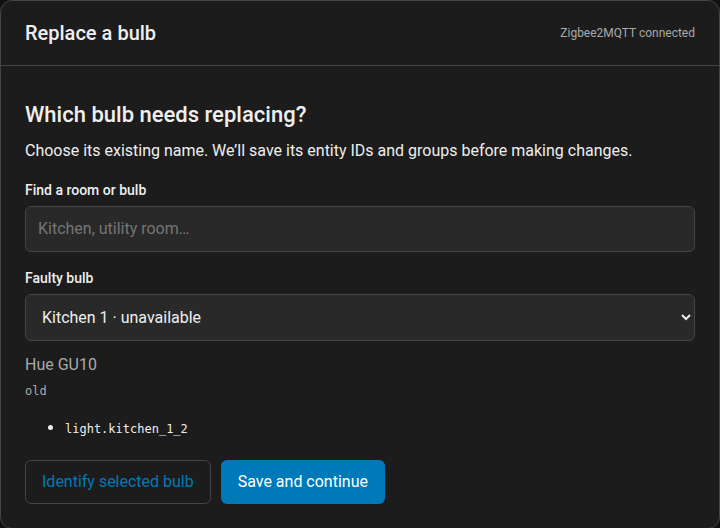
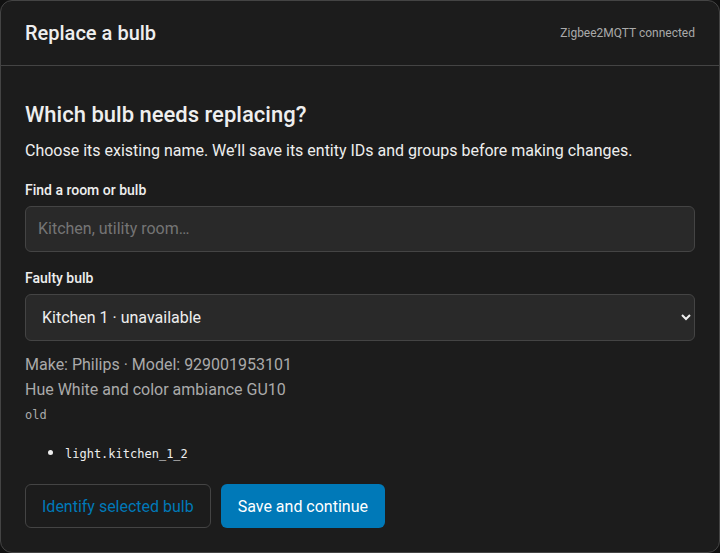
feat: show make and model and suggest newly paired bulbs

diff --git a/custom_components/z2m_device_swap/frontend/z2m-device-swap-card.js b/custom_components/z2m_device_swap/frontend/z2m-device-swap-card.js
@@ -5,6 +5,7 @@ class DeviceSwapCard extends HTMLElement {
   constructor() {
     super(); this.attachShadow({mode:'open'}); this._config = {}; this._data = null;
     this._busy = false; this._error = ''; this._selectedOld = ''; this._selectedNew = '';
+    this._pairingSession = null; this._knownDevices = new Set(); this._detectedNew = ''; this._replacementChosen = false;
     this._confirm = false; this._query = ''; this._last = ''; this._notice = '';
   }
   setConfig(config) { this._config = config; this.refresh(); }
@@ -18,7 +19,7 @@ class DeviceSwapCard extends HTMLElement {
     try {
       const data = await this._hass.callWS({type:'z2m_device_swap/status', entry_id:this._config.entry_id});
       const serialized = JSON.stringify(data);
-      if (serialized !== this._last) { this._data = data; this._last = serialized; this.render(); }
+      if (serialized !== this._last) { this.acceptData(data); this._last = serialized; this.render(); }
     } catch (error) { this._error = error.message || String(error); this.render(); }
     finally { this._loading = false; }
   }
@@ -26,11 +27,39 @@ class DeviceSwapCard extends HTMLElement {
     if (this._busy) return;
     this._busy = true; this._error = ''; this._notice = ''; this.render();
     try {
-      this._data = await this._hass.callWS({type:'z2m_device_swap/action', entry_id:this._config.entry_id,
+      const data = await this._hass.callWS({type:'z2m_device_swap/action', entry_id:this._config.entry_id,
         action, session_id:this._data?.session?.id, ...extra});
+      this.acceptData(data);
       this._confirm = false;
     } catch (error) { this._error = error.message || String(error); }
     finally { this._busy = false; this._last = ''; this.render(); await this.refresh(); }
+  }
+  acceptData(data) {
+    const session = data.session;
+    if (session?.stage === 'select') {
+      if (this._pairingSession !== session.id) {
+        this._pairingSession = session.id;
+        this._knownDevices = new Set(session.known_devices || (this._data?.devices || data.devices).map(d => d.ieee_address));
+        this._selectedNew = ''; this._detectedNew = ''; this._replacementChosen = false;
+      }
+      if (!data.devices.some(d => d.ieee_address === this._selectedNew)) {
+        this._selectedNew = ''; this._detectedNew = '';
+      }
+      const arrivals = data.devices.filter(d => d.ieee_address !== session.old.ieee_address && !this._knownDevices.has(d.ieee_address));
+      this._multipleNew = arrivals.length > 1;
+      if (!this._selectedNew && !this._replacementChosen && arrivals.length === 1) {
+        this._selectedNew = arrivals[0].ieee_address;
+        this._detectedNew = this._selectedNew;
+      }
+    }
+    this._data = data;
+  }
+  bulbDescription(device) {
+    const definition = device.definition || {};
+    const make = definition.vendor || device.manufacturer || 'Unknown make';
+    const model = device.model || definition.model || device.model_id || 'Unknown model';
+    const description = device.description || definition.description;
+    return `<span>Make: ${esc(make)} · Model: ${esc(model)}</span>${description ? `<br>${esc(description)}` : ''}`;
   }
   async identify(ieee) {
     if (this._busy) return;
@@ -53,7 +82,7 @@ class DeviceSwapCard extends HTMLElement {
   }
   selectedDetails(device) {
     if (!device) return '';
-    return `<p class="muted">${esc(device.model)}<br><code>${esc(device.ieee_address)}</code></p>
+    return `<p class="muted">${this.bulbDescription(device)}<br><code>${esc(device.ieee_address)}</code></p>
       <ul>${device.entities.filter(e => e.domain === 'light').map(e => `<li><code>${esc(e.entity_id)}</code></li>`).join('')}</ul>`;
   }
   updateSearchResults() {
@@ -104,18 +133,19 @@ class DeviceSwapCard extends HTMLElement {
         <div id="old-details">${this.selectedDetails(old)}</div><div class="actions"><button data-action="flash-old" ${!old || disabled ? 'disabled':''}>Identify selected bulb</button>
         <button class="primary" data-action="begin" ${!old || disabled ? 'disabled':''}>Save and continue</button></div>`;
     } else if (stage === 'select') {
-      content = `<p class="eyebrow">Replacing ${esc(s.old.friendly_name)}</p><h2>Install and pair the new bulb</h2>
+      content = `<p class="eyebrow">Replacing ${esc(s.old.friendly_name)}</p><h2>Install and pair the new bulb</h2><p class="muted">${this.bulbDescription(s.old)}</p>
         <p>Switch off the light circuit, replace the faulty bulb, then restore power. Reset the new bulb for pairing if needed.</p>
         <button data-action="pair" ${disabled || d.permit_join ? 'disabled':''}>${d.permit_join ? 'Pairing is open' : 'Open pairing for 2 minutes'}</button>
-        <p class="muted">Wait for the new bulb to finish interviewing. Select it below; another device joining won’t select it for you.</p>
+        <p class="muted">Wait for the new bulb to finish interviewing. A newly detected bulb will be selected below when there is a single candidate. Check its make and model, then use Identify replacement to confirm the physical bulb.</p>
+        ${this._detectedNew === this._selectedNew && replacement ? `<p id="detected" class="success" role="status">Detected a new bulb: ${esc(replacement.friendly_name)}. This is likely your replacement. Use Identify replacement to flash it and confirm before continuing.</p>` : this._multipleNew && !this._selectedNew ? '<p role="status">Multiple new bulbs detected. Choose the correct replacement and use Identify replacement to confirm it.</p>' : ''}
         <label for="replacement">Replacement bulb</label><select id="replacement">${this.options(devices.filter(item=>item.ieee_address !== s.old.ieee_address),this._selectedNew)}</select>
         ${this.selectedDetails(replacement)}<div class="actions"><button data-action="flash-new" ${!replacement || disabled ? 'disabled':''}>Identify replacement</button>
         <button class="primary" data-action="select" ${!replacement || disabled ? 'disabled':''}>Review replacement</button></div>
         <button class="text" data-action="cancel" ${disabled ? 'disabled':''}>Cancel</button>`;
     } else {
       content = `<p class="eyebrow">${stage === 'verify' ? 'Final check' : stage === 'attention' ? 'Needs attention' : 'Review replacement'}</p>
-        <h2>${esc(s.old.friendly_name)}</h2><dl><dt>Remove faulty bulb</dt><dd><code>${esc(s.old.ieee_address)}</code></dd>
-        <dt>Use replacement</dt><dd>${esc(s.replacement?.friendly_name)}<br><code>${esc(s.replacement?.ieee_address)}</code></dd>
+        <h2>${esc(s.old.friendly_name)}</h2><dl><dt>Remove faulty bulb</dt><dd>${this.bulbDescription(s.old)}<br><code>${esc(s.old.ieee_address)}</code></dd>
+        <dt>Use replacement</dt><dd>${esc(s.replacement?.friendly_name)}<br>${s.replacement ? this.bulbDescription(s.replacement) : ''}<br><code>${esc(s.replacement?.ieee_address)}</code></dd>
         <dt>Restore groups</dt><dd>${groupNames.join(', ') || 'No groups'}</dd><dt>Keep exact HA entity IDs</dt><dd><ul class="entities">${preserved.map(e=>`<li><code>${esc(e.entity_id)}</code></li>`).join('')}</ul></dd></dl>
         ${skipped.length ? `<p class="muted">These disabled entities on the old bulb are not exposed by the replacement and will not be carried over:</p><ul>${skipped.map(e=>`<li><code>${esc(e.entity_id)}</code></li>`).join('')}</ul>` : ''}
         ${s.error ? `<p class="error" role="alert">${esc(s.error)}</p>`:''}
@@ -155,7 +185,7 @@ class DeviceSwapCard extends HTMLElement {
       this.updateSearchResults();
     });
     this.shadowRoot.querySelector('#old')?.addEventListener('change', event=> {this._selectedOld=event.target.value;this.render();});
-    this.shadowRoot.querySelector('#replacement')?.addEventListener('change',event=>{this._selectedNew=event.target.value;this.render();});
+    this.shadowRoot.querySelector('#replacement')?.addEventListener('change',event=>{this._selectedNew=event.target.value;this._detectedNew='';this._replacementChosen=true;this.render();});
     this.shadowRoot.querySelector('#confirm')?.addEventListener('change',event=>{this._confirm=event.target.checked;this.render();});
     this.shadowRoot.querySelectorAll('[data-action]').forEach(button=>button.addEventListener('click',()=>{
       const action=button.dataset.action;

diff --git a/tests/card-preview.html b/tests/card-preview.html
@@ -3,11 +3,11 @@
 <z2m-device-swap-card></z2m-device-swap-card>
 <script type="module">
 import '../custom_components/z2m_device_swap/frontend/z2m-device-swap-card.js';
-const bulb=(id,name)=>({ieee_address:id,friendly_name:name,model:'Hue GU10',state:'unavailable',interview_completed:true,entities:[{entity_id:id==='old'?'light.kitchen_1_2':'light.replacement',domain:'light',unique_id:id+'_light_zigbee2mqtt'},{entity_id:'button.'+id+'_identify',domain:'button',unique_id:id+'_identify_zigbee2mqtt',disabled_by:null}]});
+const bulb=(id,name)=>({ieee_address:id,friendly_name:name,manufacturer:'Philips',model:id==='old'?'929001953101':'929003666501',description:'Hue White and color ambiance GU10',state:'unavailable',interview_completed:true,entities:[{entity_id:id==='old'?'light.kitchen_1_2':'light.replacement',domain:'light',unique_id:id+'_light_zigbee2mqtt'},{entity_id:'button.'+id+'_identify',domain:'button',unique_id:id+'_identify_zigbee2mqtt',disabled_by:null}]});
 const data={online:true,inventory_ready:true,busy:false,permit_join:false,devices:[bulb('old','Kitchen 1'),bulb('new','New Hue GU10')],groups:[],session:null};
 window.calls=[];window.serviceCalls=[];window.previewData=data;
 const hass={async callService(domain,service,data){window.serviceCalls.push({domain,service,data});},async callWS(msg){window.calls.push(msg);if(msg.type.endsWith('/action')){
-if(msg.action==='begin')data.session={id:'test-session',stage:'select',old:data.devices[0],entities:data.devices[0].entities,groups:[{id:2,name:'Kitchen Lights',endpoint:11}],replacement:null};
+if(msg.action==='begin')data.session={id:'test-session',stage:'select',old:data.devices[0],entities:data.devices[0].entities,groups:[{id:2,name:'Kitchen Lights',endpoint:11}],replacement:null,known_devices:data.devices.map(d=>d.ieee_address)};
 if(msg.action==='select'){data.session.replacement=data.devices[1];data.session.stage='review';data.session.entities.push({entity_id:'sensor.legacy',domain:'sensor',unique_id:'old_legacy_zigbee2mqtt',disabled_by:'integration'});data.session.skipped_entities=[{entity_id:'sensor.legacy',reason:'Disabled on old bulb'}];}
 if(msg.action==='apply'){if(!msg.confirmed)throw Error('Confirmation required');data.session.stage='verify';}
 if(msg.action==='finish')data.session.stage='complete';

diff --git a/scripts/check_card.py b/scripts/check_card.py
@@ -65,6 +65,8 @@ with connect(page['webSocketDebuggerUrl'], max_size=16*1024*1024) as ws:
     assert evaluate('card.shadowRoot.activeElement === originalSearch'), 'Inventory refresh lost search focus'
     assert evaluate("card.shadowRoot.querySelectorAll('#old option').length") == 2
     choose('#old','old')
+    assert 'Philips' in evaluate("card.shadowRoot.querySelector('#old-details').textContent"), 'Selected bulb must show make'
+    assert '929001953101' in evaluate("card.shadowRoot.querySelector('#old-details').textContent"), 'Selected bulb must show model'
     click('flash-old')
     assert evaluate('serviceCalls') == [{'domain':'button','service':'press','data':{'entity_id':'button.old_identify'}}], 'Identify must use the selected bulb native button'
     assert evaluate("calls.filter(c=>c.action==='flash').length") == 0, 'Identify must not use generic HA flash'
@@ -93,4 +95,28 @@ with connect(page['webSocketDebuggerUrl'], max_size=16*1024*1024) as ws:
     choose('#old','old');click('begin');choose('#replacement','new');click('select')
     assert evaluate('document.documentElement.scrollWidth <= window.innerWidth')
     screenshot('z2m-swap-mobile-dark.png')
-print('Card browser checks passed: explicit selection, reviewed IDs, confirmation gates, physical check, mobile layout.')
+    # New MQTT inventory should suggest a replacement without performing Review or Apply.
+    call('Emulation.setDeviceMetricsOverride',{'width':900,'height':1000,'deviceScaleFactor':1,'mobile':False})
+    navigate('http://127.0.0.1:8765/tests/card-preview.html')
+    choose('#old','old');click('begin')
+    evaluate("previewData.devices.push({...previewData.devices[1],ieee_address:'joined',friendly_name:'New arrival'});card.refresh()")
+    settle()
+    assert evaluate("card.shadowRoot.querySelector('#replacement').value") == 'joined', 'A single new bulb must be preselected'
+    assert 'likely' in evaluate('card.shadowRoot.textContent').lower()
+    assert 'identify' in evaluate("card.shadowRoot.querySelector('#detected').textContent").lower()
+    assert not evaluate("calls.some(c=>['select','apply'].includes(c.action))"), 'Detection must not advance review or apply'
+    evaluate("card._pairingSession=null;card._selectedNew='';card._last='';card.refresh()")
+    settle()
+    assert evaluate("card.shadowRoot.querySelector('#replacement').value") == 'joined', 'Saved pairing baseline must survive a card reload'
+    choose('#replacement','new')
+    evaluate("previewData.devices.push({...previewData.devices[1],ieee_address:'later',friendly_name:'Another arrival'});card.refresh()")
+    settle()
+    assert evaluate("card.shadowRoot.querySelector('#replacement').value") == 'new', 'New arrivals must not override a manual choice'
+    assert evaluate("card.shadowRoot.querySelector('#detected')") is None
+    navigate('http://127.0.0.1:8765/tests/card-preview.html')
+    choose('#old','old');click('begin')
+    evaluate("previewData.devices.push(...['a','b'].map(id=>({...previewData.devices[1],ieee_address:id,friendly_name:id})));card.refresh()")
+    settle()
+    assert evaluate("card.shadowRoot.querySelector('#replacement').value") == '', 'Simultaneous arrivals need an explicit choice'
+    assert 'multiple' in evaluate('card.shadowRoot.textContent').lower()
+print('Card browser checks passed: make/model, new bulb suggestions, manual choice, ambiguity, reviewed IDs, confirmation gates, mobile layout.')

diff --git a/tests/test_status.py b/tests/test_status.py
@@ -1,0 +1,40 @@
+"""Exercise the UI inventory projection without the HA WebSocket decorators."""
+import ast
+import asyncio
+import importlib.util
+from pathlib import Path
+from types import SimpleNamespace
+import unittest
+
+ROOT = Path(__file__).parents[1] / 'custom_components/z2m_device_swap'
+spec = importlib.util.spec_from_file_location('status_workflow', ROOT / 'workflow.py')
+workflow = importlib.util.module_from_spec(spec)
+spec.loader.exec_module(workflow)
+tree = ast.parse((ROOT / 'websocket.py').read_text())
+function = next(n for n in tree.body if isinstance(n, ast.FunctionDef) and n.name == 'status')
+namespace = {'light_features': workflow.light_features}
+exec(compile(ast.Module(body=[function], type_ignores=[]), str(ROOT / 'websocket.py'), 'exec'), namespace)
+
+
+class StatusTests(unittest.TestCase):
+    def project(self, device):
+        bridge = SimpleNamespace(status=lambda: {'devices': [device]}, entities=lambda ieee: [],
+                                 hass=SimpleNamespace(states=SimpleNamespace(get=lambda entity: None)))
+        runtime = {'bridge': bridge, 'workflow': SimpleNamespace(snapshot=lambda: None, lock=asyncio.Lock()),
+                   'action_lock': asyncio.Lock()}
+        return namespace['status'](runtime)['devices'][0]
+
+    def test_selected_bulb_metadata_uses_catalog_make_model_and_description(self):
+        device = {'ieee_address': 'sample', 'friendly_name': 'Room bulb', 'manufacturer': 'Signify',
+                  'model_id': 'LCG006', 'definition': {'vendor': 'Philips', 'model': '929003666501',
+                  'description': 'Hue color GU10', 'exposes': [{'type': 'light', 'features': []}]}}
+        result = self.project(device)
+        self.assertEqual((result['manufacturer'], result['model'], result['description']),
+                         ('Philips', '929003666501', 'Hue color GU10'))
+
+    def test_missing_catalog_metadata_falls_back_to_reported_identity(self):
+        result = self.project({'ieee_address': 'sample', 'friendly_name': 'Room bulb',
+                               'manufacturer': 'Reported make', 'model_id': 'Reported model',
+                               'definition': {'exposes': [{'type': 'light', 'features': []}]}})
+        self.assertEqual((result['manufacturer'], result['model'], result['description']),
+                         ('Reported make', 'Reported model', None))

diff --git a/custom_components/z2m_device_swap/websocket.py b/custom_components/z2m_device_swap/websocket.py
@@ -19,7 +19,9 @@ def status(runtime):
         entities = bridge.entities(device['ieee_address'])
         states = [bridge.hass.states.get(e['entity_id']) for e in entities if e['domain'] == 'light']
         bulbs.append({'ieee_address': device['ieee_address'], 'friendly_name': device['friendly_name'],
-                      'model': (device.get('definition') or {}).get('model'),
+                      'manufacturer': (device.get('definition') or {}).get('vendor') or device.get('manufacturer'),
+                      'model': (device.get('definition') or {}).get('model') or device.get('model_id'),
+                      'description': (device.get('definition') or {}).get('description'),
                       'interview_completed': device.get('interview_completed'),
                       'entities': entities, 'state': next((s.state for s in states if s), 'unknown')})
     return {**inventory, 'devices': bulbs, 'session': runtime['workflow'].snapshot(),

diff --git a/tests/test_workflow.py b/tests/test_workflow.py
@@ -83,6 +83,13 @@ class WorkflowTests(unittest.IsolatedAsyncioTestCase):
         self.assertEqual(snapshot['entities'][0]['entity_id'], 'light.custom_kitchen_1')
         self.assertEqual(snapshot['groups'][0]['id'], 7)
 
+    async def test_snapshot_records_existing_devices_before_pairing(self):
+        await self.flow.begin('old')
+        self.bridge.devices['joined'] = bulb('joined', 'Newly joined')
+        self.assertEqual(set(self.flow.snapshot()['known_devices']), {'old', 'new'})
+        restored = load_workflow()(self.bridge, self.save, self.saved[-1])
+        self.assertEqual(set(restored.snapshot()['known_devices']), {'old', 'new'})
+
     async def test_apply_requires_explicit_confirmation(self):
         await self.ready()
         with self.assertRaises(ValueError):

diff --git a/custom_components/z2m_device_swap/workflow.py b/custom_components/z2m_device_swap/workflow.py
@@ -67,7 +67,8 @@ class Workflow:
                 raise ValueError('Multiple group endpoints require manual replacement')
             session = {'version': 1, 'id': uuid4().hex, 'old': device,
                             'entities': deepcopy(entities), 'groups': memberships,
-                            'replacement': None, 'skipped_entities': [], 'stage': 'select', 'pending': None,
+                            'replacement': None, 'known_devices': sorted(self.adapter.devices),
+                            'skipped_entities': [], 'stage': 'select', 'pending': None,
                             'physical_test_confirmed': False, 'error': None}
             await self._persist(**session)
 

diff --git a/scripts/setup_ha.py b/scripts/setup_ha.py
@@ -78,7 +78,7 @@ def main():
         panel_path='z2m-device-swap'
         if args.dashboard:
             resources=query('lovelace/resources')
-            resource_url='/z2m_device_swap/z2m-device-swap-card.js?v=0.1.3'
+            resource_url='/z2m_device_swap/z2m-device-swap-card.js?v=0.1.5'
             if not any(r['url'].split('?')[0] == resource_url.split('?')[0] for r in resources):
                 query('lovelace/resources/create',url=resource_url,res_type='module')
             dashboards=query('lovelace/dashboards/list')

diff --git a/custom_components/z2m_device_swap/__init__.py b/custom_components/z2m_device_swap/__init__.py
@@ -14,7 +14,7 @@ async def async_setup(hass, config):
     hass.data.setdefault(DOMAIN, {'entries': {}})
     await hass.http.async_register_static_paths([
         StaticPathConfig('/z2m_device_swap', str(Path(__file__).parent / 'frontend'), False)])
-    frontend.add_extra_js_url(hass, '/z2m_device_swap/z2m-device-swap-card.js?v=0.1.3')
+    frontend.add_extra_js_url(hass, '/z2m_device_swap/z2m-device-swap-card.js?v=0.1.5')
     register(hass)
     return True
 

diff --git a/README.md b/README.md
@@ -16,11 +16,27 @@ No cloud service or separate API key is used. The installed integration reuses H
 
 ## Install
 
-Manual: copy `custom_components/z2m_device_swap` to your HA configuration directory's `custom_components/` folder and restart Home Assistant. Add **Zigbee2MQTT Device Swap** under Settings → Devices & services → Add integration. Enter the MQTT base topic (normally `zigbee2mqtt`).
+### Install through HACS
 
-The integration loads its bundled Lovelace card. Add the card to a normal HA dashboard so HA supplies its navigation, layout and edit controls. The integration does not create a custom sidebar panel.
+[HACS](https://www.hacs.xyz/docs/use/) must already be installed in Home Assistant. This integration is available as a **custom repository**.
 
-HACS: add `https://github.com/simonjgreen/z2m-device-swap` under HACS → Custom repositories, category **Integration**, and install. Tests and official HACS/hassfest validation run on GitHub.
+1. Open **HACS**, select the three-dot menu, then **Custom repositories**.
+2. Enter `https://github.com/simonjgreen/z2m-device-swap` and select **Integration** as the repository type, then **Add**.
+3. Find **Zigbee2MQTT Device Swap** in HACS, open it, and select **Download**. If no tagged release is offered, select the default `main` branch.
+4. Restart Home Assistant to load the integration.
+5. Go to **Settings → Devices & services → Add integration**, search for **Zigbee2MQTT Device Swap**, and select it.
+6. Enter your Zigbee2MQTT MQTT base topic, normally `zigbee2mqtt`. HA must already have its MQTT integration connected to that broker.
+7. Add the bundled card to a dashboard using the configuration below.
+
+For updates, download the update through HACS, restart Home Assistant, and reload the dashboard page. If the integration is missing from **Add integration** after restarting, hard-refresh the browser.
+
+### Manual installation
+
+Copy `custom_components/z2m_device_swap` to your HA configuration directory's `custom_components/` folder and restart Home Assistant. Add **Zigbee2MQTT Device Swap** under **Settings → Devices & services → Add integration**, then enter the MQTT base topic.
+
+### Add the dashboard card
+
+The integration loads its bundled Lovelace card. Add it to a normal HA dashboard so HA supplies navigation, layout and edit controls.
 
 For a dashboard card, open a dashboard, choose Edit → Add card → Manual, and use:
 
@@ -29,7 +45,7 @@ type: custom:z2m-device-swap-card
 entry_id: YOUR_DEVICE_SWAP_CONFIG_ENTRY_ID
 ```
 
-The entry ID is visible in the integration's config-entry URL or the `config_entries/get` WebSocket response. The integration loads the JavaScript automatically. If resource loading is managed manually, use `/z2m_device_swap/z2m-device-swap-card.js?v=0.1.3` as a JavaScript module resource.
+The entry ID is visible in the integration's config-entry URL or the `config_entries/get` WebSocket response. The integration loads the JavaScript automatically. If resource loading is managed manually, use `/z2m_device_swap/z2m-device-swap-card.js?v=0.1.5` as a JavaScript module resource.
 
 For a dedicated native dashboard, the optional helper `scripts/setup_ha.py --ha-url http://YOUR_HA:8123 --dashboard` creates one containing the card. It uses HA's supported Lovelace APIs, leaves existing dashboards untouched, and preserves an existing Device Swap dashboard's edits.
 
@@ -39,7 +55,7 @@ For a dedicated native dashboard, the optional helper `scripts/setup_ha.py --ha-
 flowchart TD
     A[Choose and identify the faulty bulb] --> B[Save entity IDs and group snapshot]
     B --> C[Switch off circuit, replace bulb, restore power]
-    C --> D[Open pairing and select the new bulb]
+    C --> D[Open pairing and check the suggested new bulb]
     D --> E[Wait for interview and HA discovery]
     E --> F[Review entity IDs and groups; confirm old bulb is disconnected]
     F --> G[Remove old device and rename replacement]
@@ -56,9 +72,9 @@ Validation blocks removal if required entities or group endpoints do not match. 
 
 ## Replace one bulb
 
-1. Choose the faulty bulb by its existing name. **Identify selected bulb** uses the bulb’s native Identify button (or an explicitly supported blink effect). A request confirmation appears after it is sent. Dead or unpowered bulbs cannot blink; identify working neighbors to locate them. HA may still show a cached on/off state for an unavailable bulb.
+1. Choose the faulty bulb by its existing name. Its make, model and description appear below the selector so you can check what replacement you need. **Identify selected bulb** uses the bulb’s native Identify button (or an explicitly supported blink effect). A request confirmation appears after it is sent. Dead or unpowered bulbs cannot blink; identify working neighbors to locate them. HA may still show a cached on/off state for an unavailable bulb.
 2. Save the snapshot. Switch off the circuit, change the hardware, and restore power.
-3. Open the two-minute pairing window and reset the new bulb if needed. Select the replacement explicitly and wait for its interview and HA discovery to finish.
+3. Open the two-minute pairing window and reset the new bulb if needed. A single bulb first seen after the snapshot is preselected, with a notice that it is likely your replacement. Check its make and model and use **Identify replacement** to flash it before continuing. You can choose a different bulb; later arrivals do not override your choice. If several new bulbs appear together, select the correct one yourself. Wait for its interview and HA discovery to finish.
 4. Review both device addresses, the exact HA entity IDs, and old group memberships. Confirm that the old bulb is disconnected.
 5. Apply. The integration force-removes the old device, renames the replacement with `homeassistant_rename: true`, restores group membership, and restores any exact entity IDs (including custom names or suffixes).
 6. Test the new bulb and the room's normal controls/automations, then finish the replacement. Start the next bulb only after this check.
